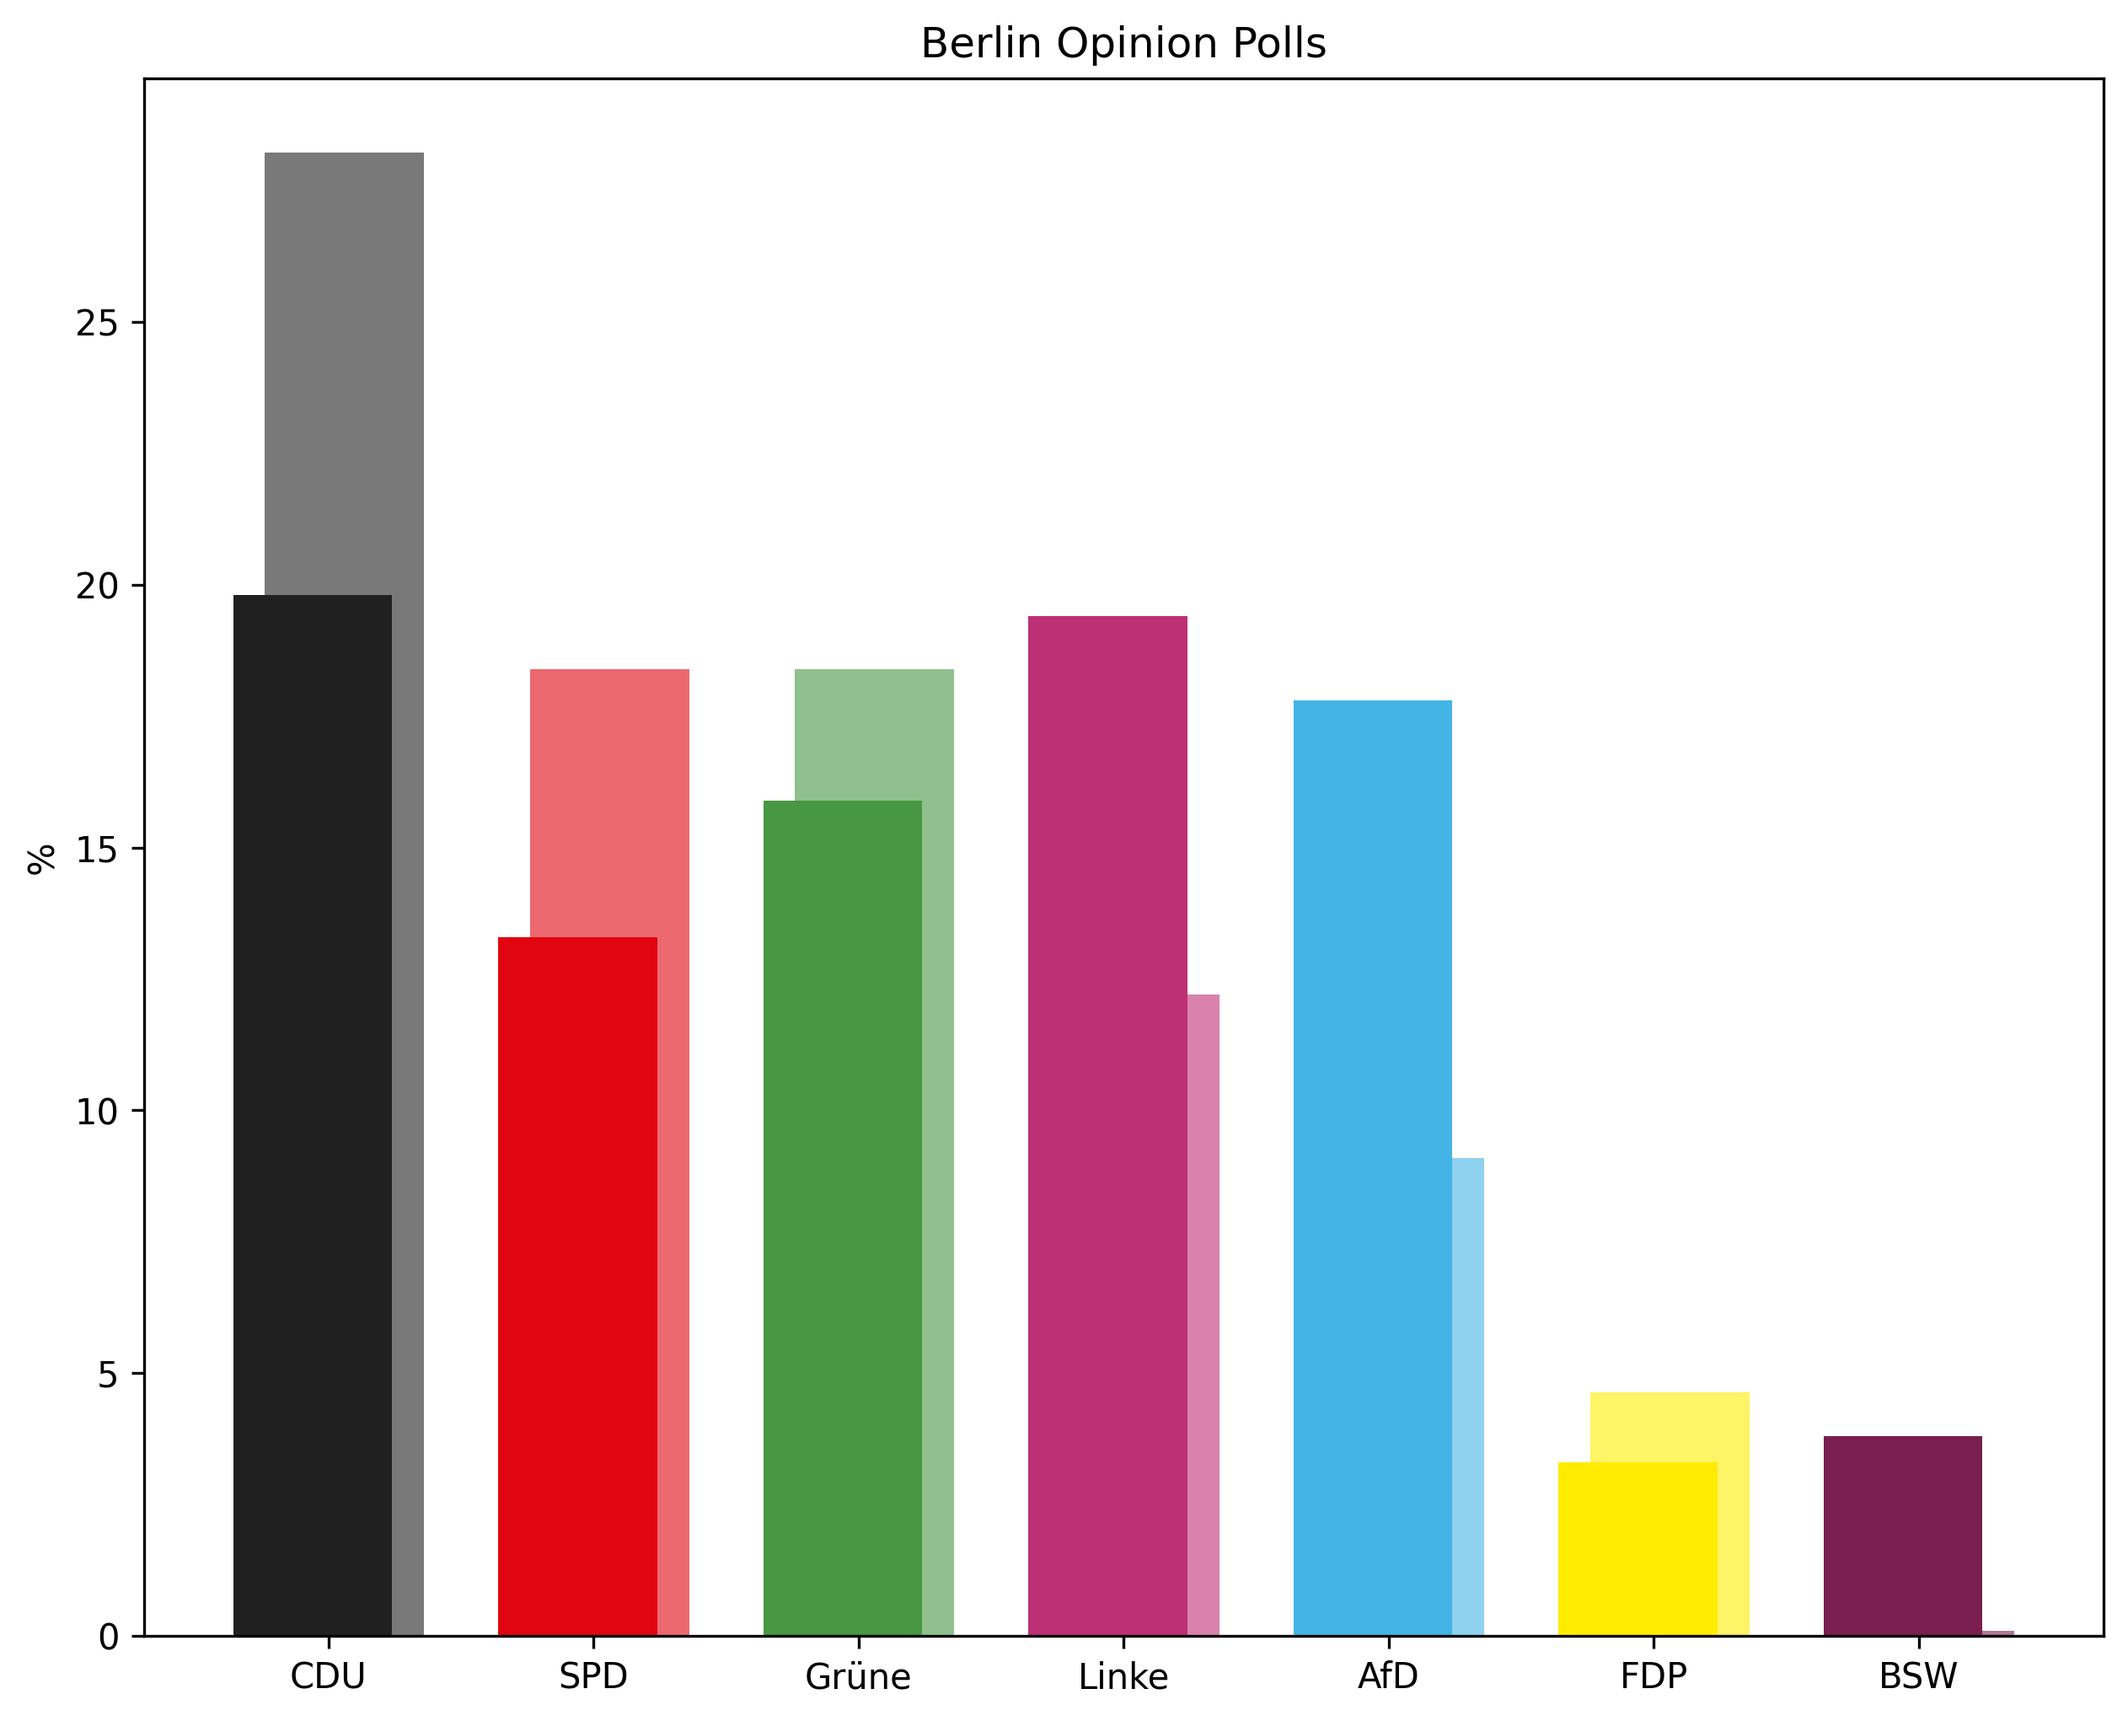
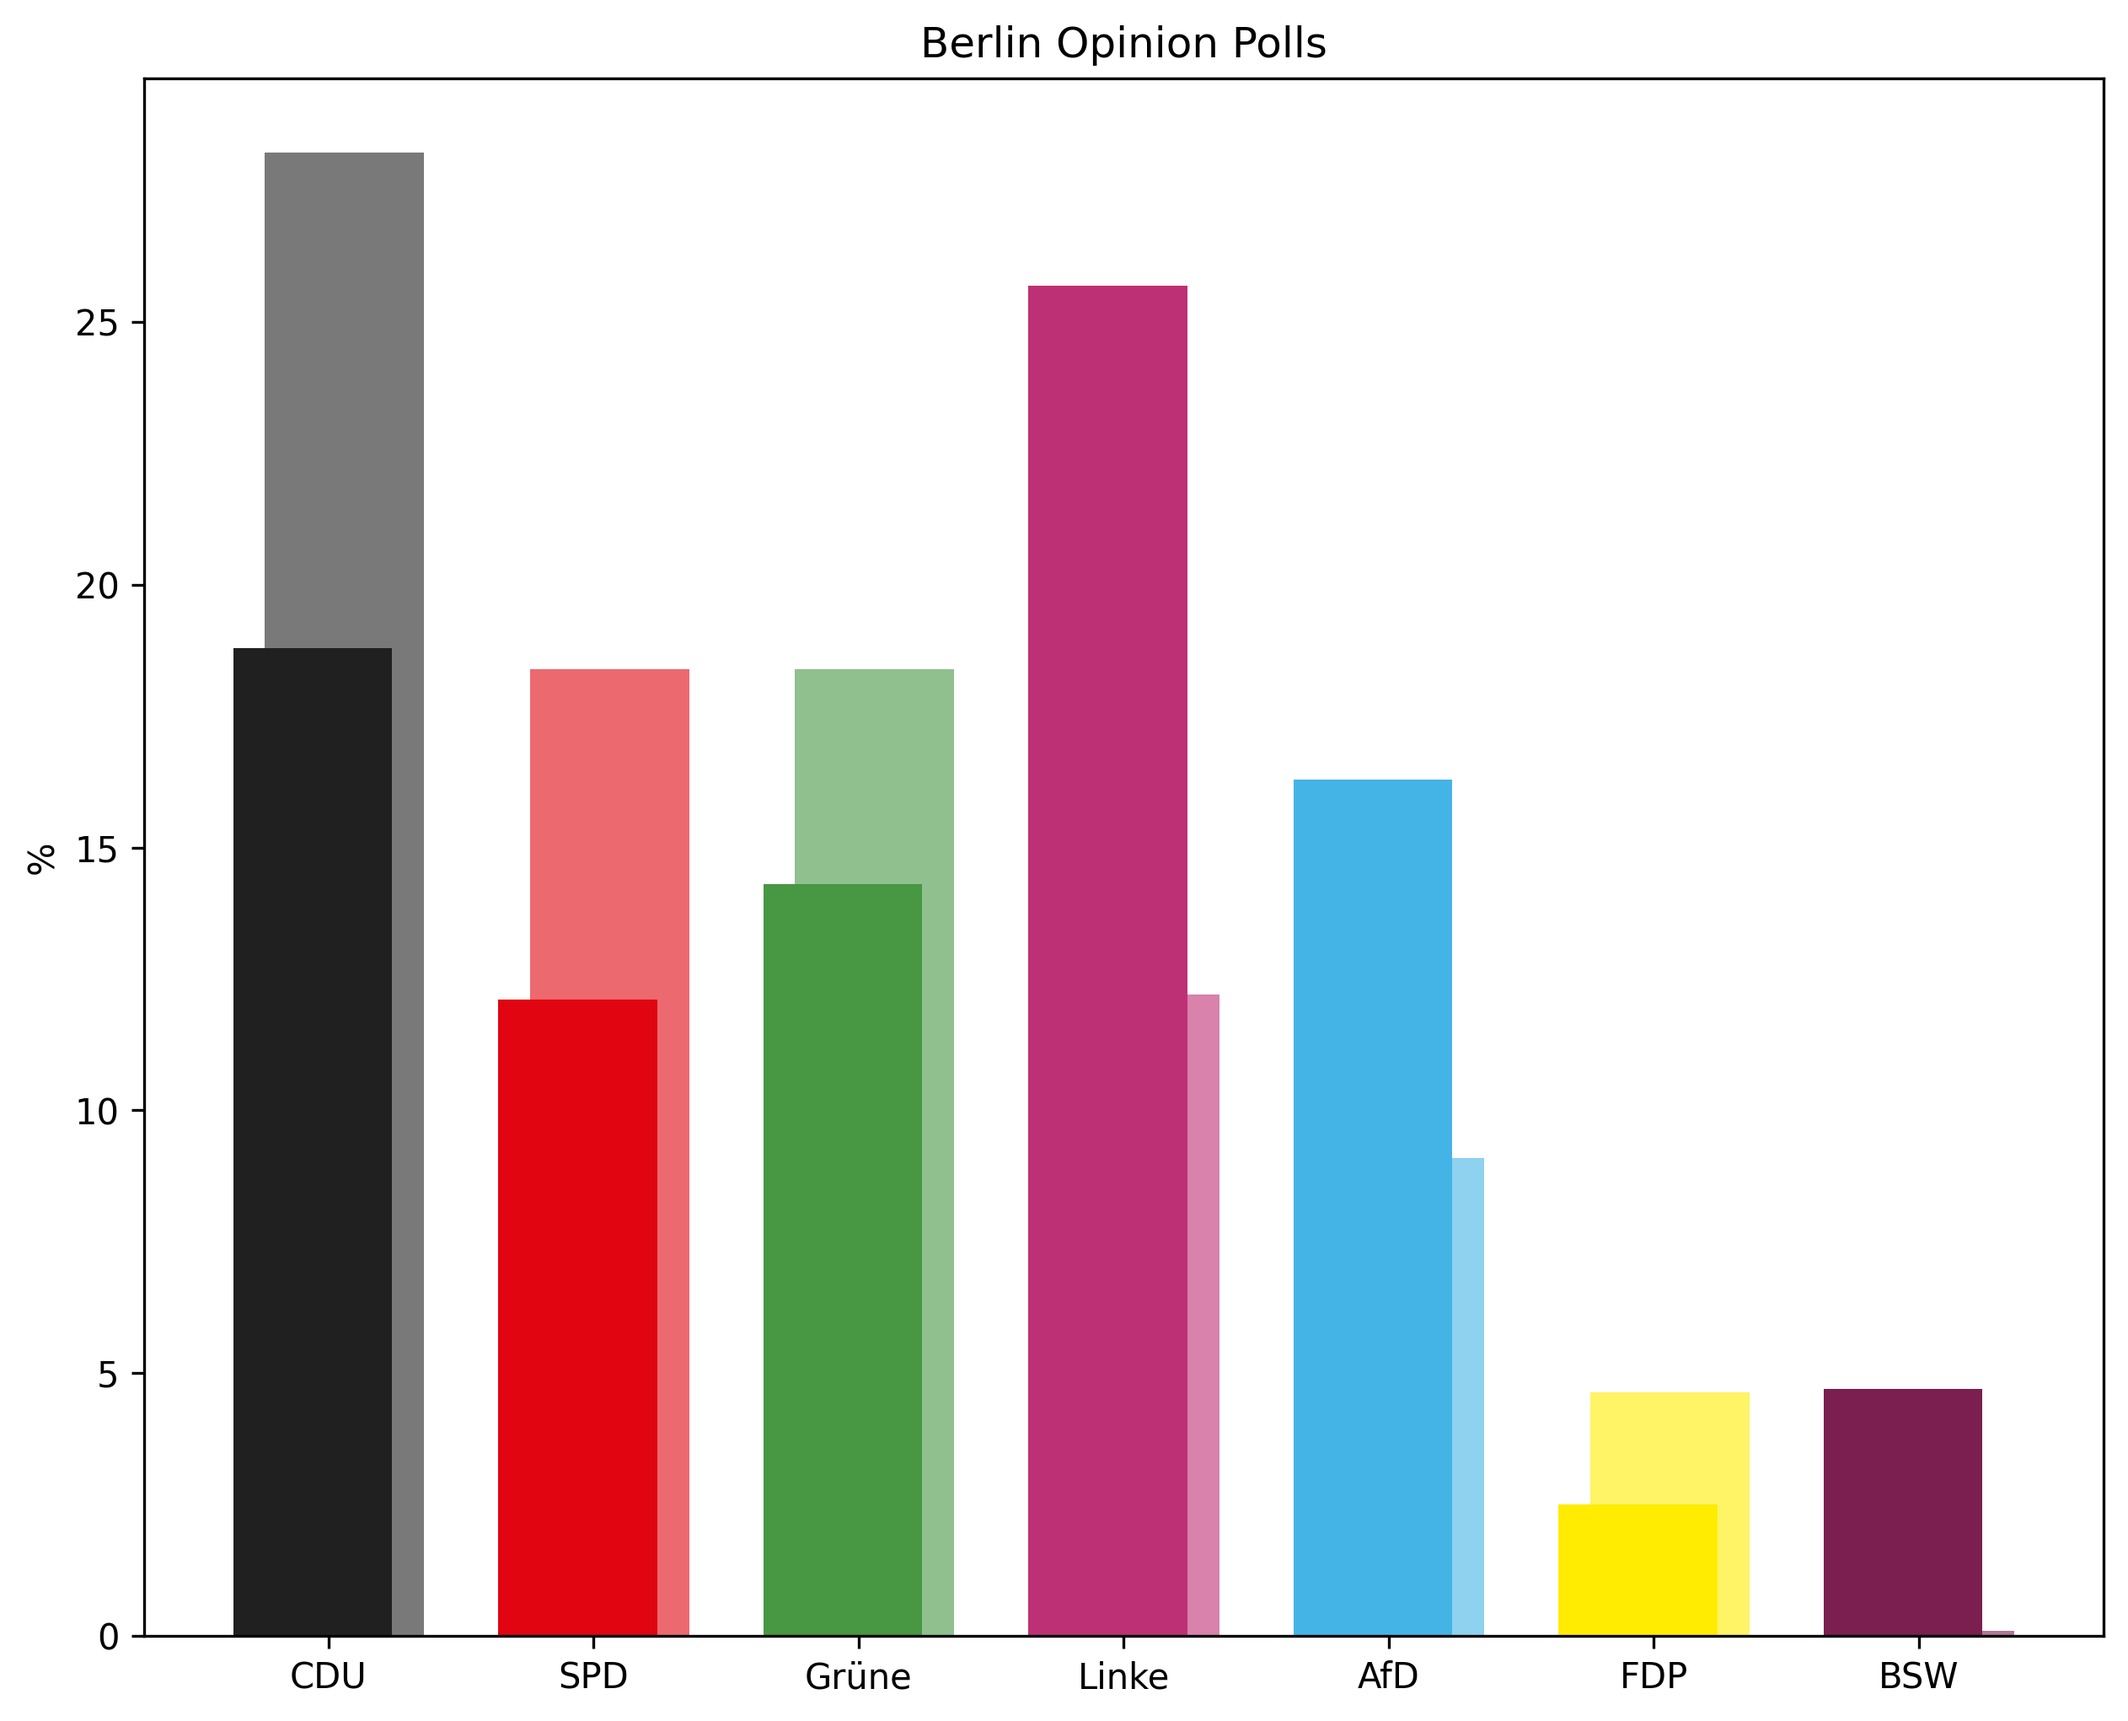
Updated German results

diff --git a/Europe/WestEurope/Mecklenburg-Vorpommern.py b/Europe/WestEurope/Mecklenburg-Vorpommern.py
@@ -1,0 +1,24 @@
+import matplotlib.pyplot as plt
+import numpy as np
+
+parties = ['SPD', 'AfD', 'CDU', 'Linke', 'Grüne', 'FDP', 'BSW']
+polling_2026 = [35.5, 38.2, 4.9, 6.5, 5.7, 1.0, 4.8]
+election_2026 = [39.59, 16.72, 13.30, 9.94, 6.30, 5.80, 0.10]
+
+poll_colors = ['#e00510', '#44b4e6', '#202020', '#be3075', '#479743', '#ffec01', '#7b1e50']
+election_colors = ['#ec696f', '#8ed2f0', '#797979', '#d882ac', '#90c08e', '#fff366', '#af7896']
+
+x = np.arange(len(parties))
+width = 0.6
+
+fig, ax = plt.subplots(figsize=(10, 8))
+ax.bar(x + width/10, election_2026, width=width, color=election_colors, label='2026 Election')
+ax.bar(x - width/10, polling_2026, width=width, color=poll_colors, label='September 2026 Polling')
+
+ax.set_ylabel('%')
+ax.set_xticks(x)
+ax.set_xticklabels(parties)
+ax.set_title('Mecklenburg-Vorpommern Opinion Polls')
+
+plt.savefig('Europe/WestEurope/Mecklenburg-Vorpommern Opinion Polls.png', dpi=300, bbox_inches='tight')
+plt.show()

diff --git a/Europe/WestEurope/Berlin.py b/Europe/WestEurope/Berlin.py
@@ -2,7 +2,7 @@ import matplotlib.pyplot as plt
 import numpy as np
 
 parties = ['CDU', 'SPD', 'Grüne', 'Linke', 'AfD', 'FDP', 'BSW']
-polling_2026 = [19.8, 13.3, 15.9, 19.4, 17.8, 3.3, 3.8]
+polling_2026 = [18.8, 12.1, 14.3, 25.7, 16.3, 2.5, 4.7]
 election_2026 = [28.23, 18.39, 18.39, 12.20, 9.09, 4.64, 0.10]
 
 poll_colors = ['#202020', '#e00510', '#479743', '#be3075', '#44b4e6', '#ffec01', '#7b1e50']
